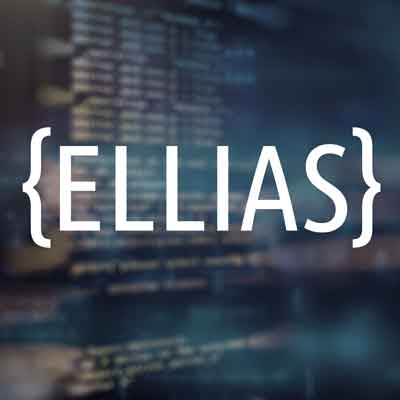
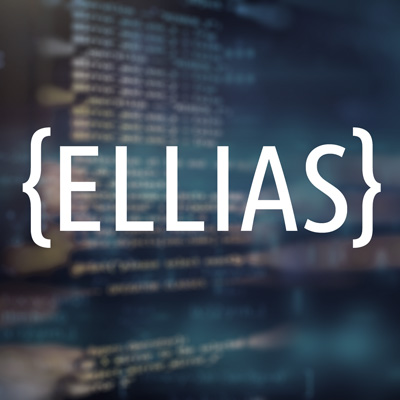
last ogg edit

diff --git a/index.html b/index.html
@@ -12,13 +12,25 @@
     <meta property="og:type" content="website" />
     <meta property="og:url" content="https://ellias.dev" />
     <meta property="og:description" content="I feel coding is a kind of nowadays's magic. I love the idea that, using certain words in certain order, I can make things look and work my way." />
+    <meta property="og:image" content="resources/pics/og.jpg" />
+    <meta property="og:image:width" content="1200" />
+    <meta property="og:image:height" content="1200" />
+
     <meta property="og:image" content="resources/pics/og400.jpg" />
+    <meta property="og:image:width" content="400" />
+    <meta property="og:image:height" content="400" />
+
+    <meta property="og:image" content="resources/pics/1200600og.jpg" />
+    <meta property="og:image:width" content="1200" />
+    <meta property="og:image:height" content="673" />
+
+    <meta property="og:image:secure_url" content="resources/pics/og400.jpg" />
     <!-- Twitter card meta  -->
     <meta name="twitter:card" content="summary_large_image" />
     <meta name="twitter:site" content="@ellias.dev" />
     <meta name="twitter:title" content="ELLIAS - Freelance Web Developer" />
     <meta name="twitter:description" content="I feel coding is a kind of nowadays's magic. I love the idea that, using certain words in certain order, I can make things look and work my way." />
-    <meta name="twitter:image" content="resources/pics/og400.jpg" />
+    <meta name="twitter:image" content="resources/pics/1200600og.jpg" />
     <!-- og end -->
 
     <link href="resources/sass/main.css" rel="stylesheet" type="text/css">
